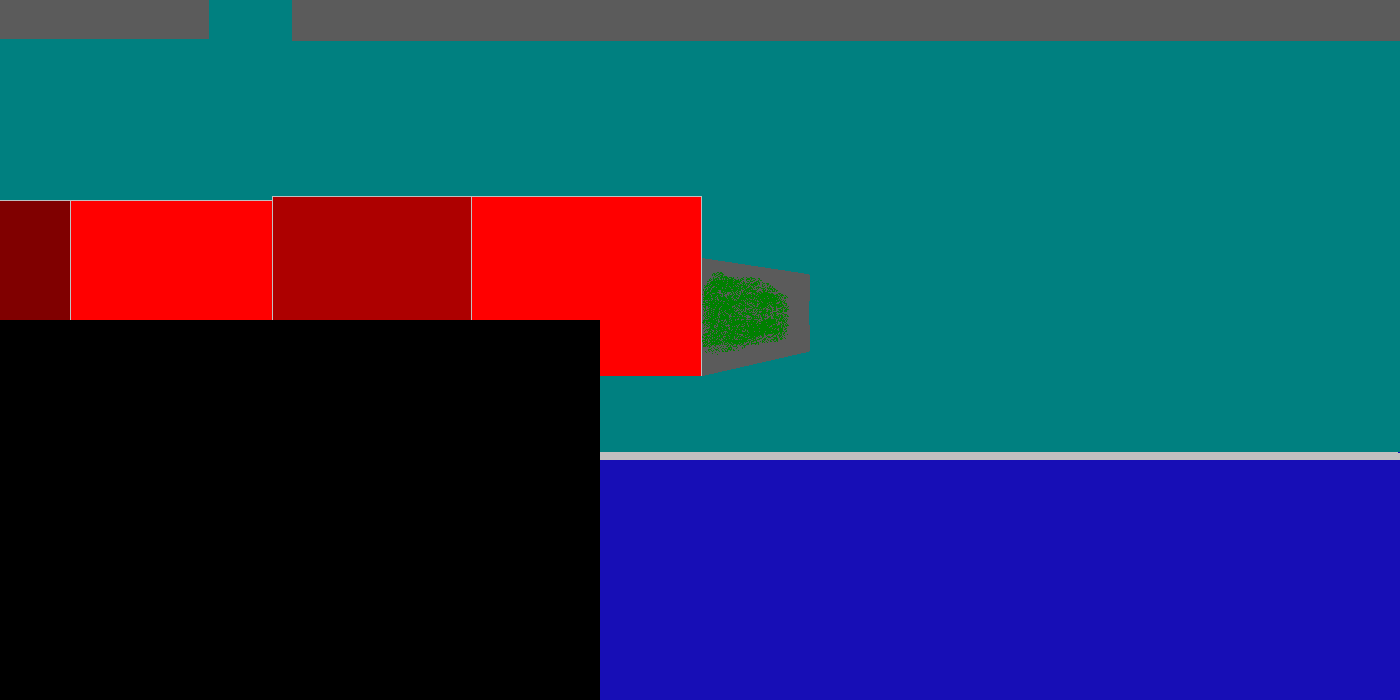
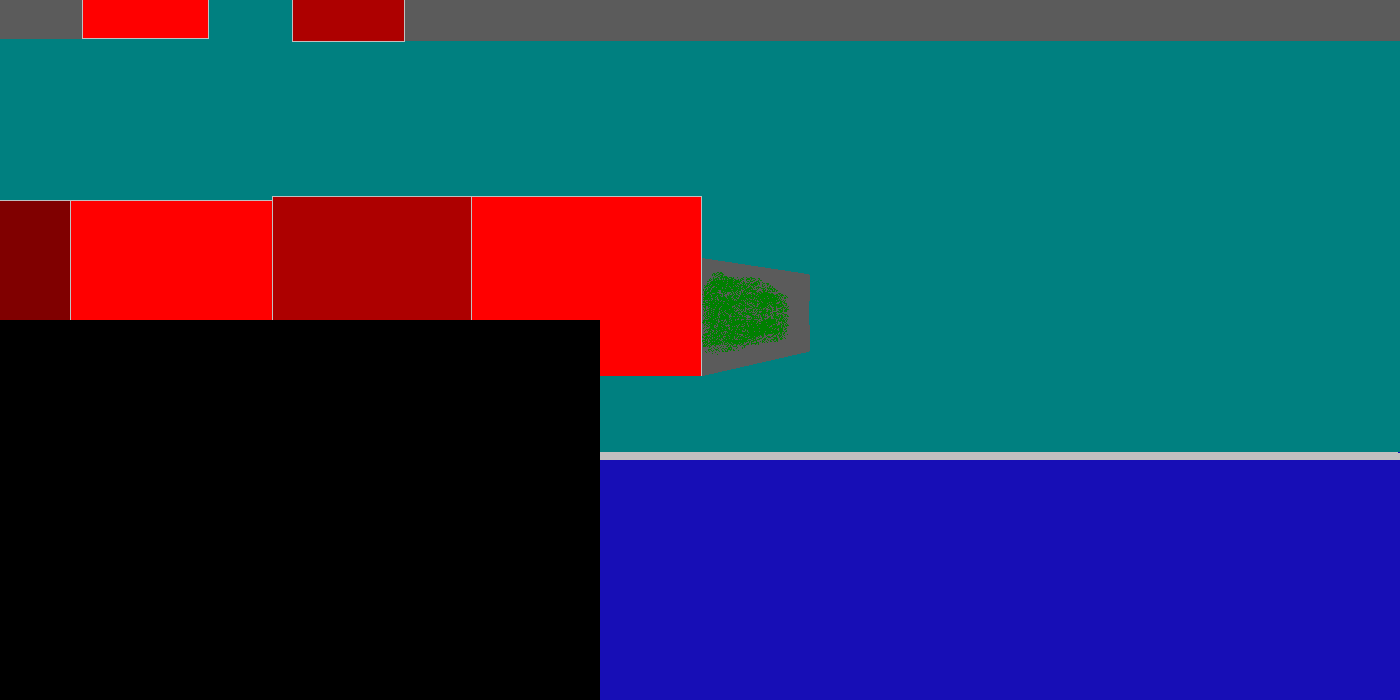
Level switching finished. Added a second enemy sprites in the Cavallotti Riverside level.

Changed region(s): [[0.1843, 0.0, 0.3071, 0.06], [0.0614, 0.0, 0.1536, 0.06]]

diff --git a/cheeseboys/level/levels_database/western_cavallotti_riverside_1.py b/cheeseboys/level/levels_database/western_cavallotti_riverside_1.py
@@ -19,9 +19,29 @@ def load(name, hero):
     animations = level['animations']
     hero.addToGroups(all, charas, physical)
 
-    # TODO
+    boss = character.Character("The Boss", ("enemy2_sword.png","enemy2.png"), (all,charas,enemies,physical), realSize=(18,25), speed=110., weaponInAndOut=True)
+    boss.setBrain(BaseStateMachine)
+    boss.setCombatValues(2, 10)
+    boss.hitPoints = boss.hitPointsLeft = 25
 
+    level.addSprite(hero, hero.position)
+    level.addSprite(boss, (740, 320))
 
+    level.addPhysicalBackground( (1000,700), (800, 250) )
+    level.addPhysicalBackground( (136,318), (273, 118) )
+    level.addPhysicalBackground( (487,375), (430, 180) )
+    level.addPhysicalBackground( (300,700), (600, 380) )
+    level.addPhysicalBackground( (146,40), (127, 40) )
+    level.addPhysicalBackground( (349,40), (114, 40) )
+
+    exits1 = LevelExit( (1382,452), (36,410), "The South Bridge", (-200, 100), (100,150), (0, 0), exits)
+    level.addSprite(exits1, (1382,452) )
+    exits2 = LevelExit( (249,28), (84,30), None, None, None, None, exits)
+    level.addSprite(exits2, (249,28) )
+    exits3 = LevelExit( (618,452), (36,76), None, None, None, None, exits)
+    level.addSprite(exits3, (618,452) )
+    exits4 = LevelExit( (15,200), (30,162), None, None, None, None, exits)
+    level.addSprite(exits4, (15,200) )
 
     level.enableRainEffect()
     

diff --git a/cheeseboys/sprites/level_exit.py b/cheeseboys/sprites/level_exit.py
@@ -8,7 +8,7 @@ from cheeseboys import cblocals, utils
 class LevelExit(GameSprite):
     """Important sprite that allow change of the level"""
     
-    def __init__(self, position, dimension, exit_to, start_position, firstNavPoint, *containers):
+    def __init__(self, position, dimension, exit_to, start_position, firstNavPoint, topleft, *containers):
         GameSprite.__init__(self, *containers)
         self.rect = pygame.Rect(position, dimension)
         self.image = self._loadEmptySprite(dimension, fillWith=(240,240,240))
@@ -17,6 +17,7 @@ class LevelExit(GameSprite):
         self.to_level = exit_to
         self.start_position = start_position
         self.firstNavPoint = firstNavPoint
+        self.nextTopleft = topleft
 
     def update(self, time_passed):
         """Update methods does:
@@ -41,6 +42,7 @@ class LevelExit(GameSprite):
                     self._focus = False
 
             # Change level
-            if self.to_level and self.physical_rect.colliderect(self.currentLevel.hero.physical_rect):
+            if self.to_level and self.physical_rect.colliderect(self.currentLevel.hero.physical_rect) and \
+                        self.currentLevel.timeIn > 5.:
                 event = pygame.event.Event(cblocals.LEVEL_CHANGE_EVENT, {'exit':self, })
                 pygame.event.post(event)

diff --git a/cheeseboys/level/levels_database/the_south_bridge.py b/cheeseboys/level/levels_database/the_south_bridge.py
@@ -8,7 +8,6 @@ from cheeseboys.sprites import CodigoroSign, LevelExit
 
 def load(name, hero):
     level = GameLevel(_(str(name)), (800, 1500))
-    level.topleft = (100, 900)
     level.hero = hero
 
     all = level['all']
@@ -32,7 +31,7 @@ def load(name, hero):
     enemy4.setBrain(BaseStateMachine)
     enemy4.setCombatValues(0, 5)
 
-    exits1 = LevelExit( (18,208), (36,170), "Western Cavallotti Riverside 1", (1200, 310), (100,290), exits)
+    exits1 = LevelExit( (18,208), (36,170), "Western Cavallotti Riverside 1", (1500, 310), (1200,290), (1500, 310), exits)
     level.addSprite(exits1, (18,208) )
 
     level.addSprite(hero, (350, 1450))

diff --git a/cheeseboys.py b/cheeseboys.py
@@ -112,8 +112,14 @@ def main():
             if event.type==cblocals.LEVEL_CHANGE_EVENT:
                 exit = event.exit
                 level = loadLevelByName(exit.to_level, hero)
+                level.topleft = exit.nextTopleft
+                level.timeIn=0.
                 hero.position = exit.start_position
                 hero.navPoint = exit.firstNavPoint
+                utils.changeMouseCursor(None)
+                charas = level['charas']
+                enemies = level['enemies']
+                physical = level['physical']
                 break
 
         # ******* EVENTS LOOP END *******

diff --git a/cheeseboys/level/level.py b/cheeseboys/level/level.py
@@ -46,6 +46,7 @@ class GameLevel(object):
         self._rain = None
         self.screenReferenceSprite = None
         self.hero = None
+        self.timeIn = 0.
         
         # The presentation object running
         self.presentation = None
@@ -199,6 +200,7 @@ class GameLevel(object):
             group[1].update(time_passed)
         if self._rain:
             self._rain.update(time_passed)
+        self.timeIn+=time_passed
 
     def update_text(self, time_passed):
         """An update method that only works with the 'level_text' group"""

diff --git a/cheeseboys/ai/base_brain.py b/cheeseboys/ai/base_brain.py
@@ -159,7 +159,7 @@ class BaseStateHit(State):
         If the last was an attack then we return to the hunting state (or an "attack in the air" is performed).
         """
         if self.collected_rest_time>=self.rest_time:
-            if self.old_state_name == "attacking":
+            if self.old_state_name == "attacking" or self.old_state_name == "hitten":
                 return "hunting"
             return self.old_state_name
         return None

diff --git a/cheeseboys/character/character.py b/cheeseboys/character/character.py
@@ -5,9 +5,9 @@ import logging
 import pygame
 from pygame.locals import *
 
+from cheeseboys import cblocals, utils
 from cheeseboys.cbrandom import cbrandom
 from cheeseboys.ai import StateMachine, PresentationStateMachine
-from cheeseboys import cblocals, utils
 from cheeseboys.utils import Vector2
 from cheeseboys.pygame_extensions import GameSprite
 from cheeseboys.attack import Attack
